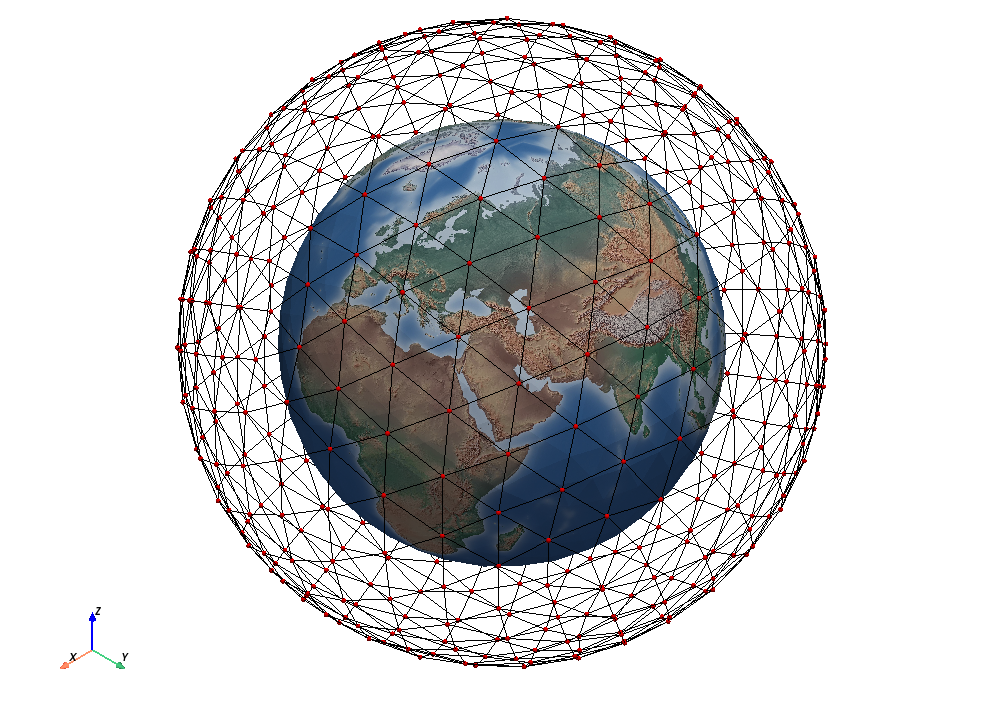
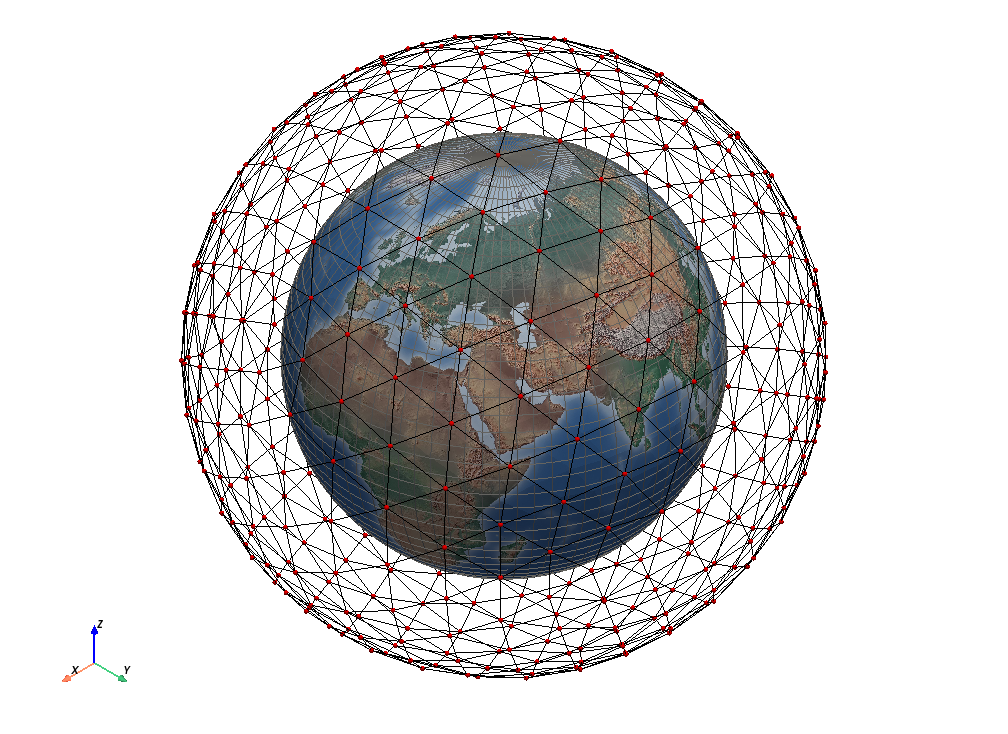
add base layer grid

Changed region(s): [[0.1555, 0.031, 0.8395, 0.9619], [0.0622, 0.8999, 0.1244, 0.9309], [0.0933, 0.8378, 0.1244, 0.8688]]

diff --git a/informatics-lab/icosphere/main.py b/informatics-lab/icosphere/main.py
@@ -189,6 +189,15 @@ def plot_base_layer(mesh: PolyData, zlevel: Optional[int] = None) -> None:
     plotter.add_base_layer(
         mesh=mesh.copy(), texture=geovista.natural_earth_hypsometric(), zlevel=zlevel
     )
+
+    M, N = 45, 90
+    lats = np.linspace(-90, 90, M + 1)
+    lons = np.linspace(-180, 180, N + 1)
+    data = np.random.random(M * N)
+    # create the grid from the synthetic data
+    grid = geovista.Transform.from_1d(lons, lats)
+    plotter.add_base_layer(mesh=grid, style="wireframe", color="grey", zlevel=zlevel)
+
     plotter.add_axes()
     plotter.add_text(
         f"Wireframe with Points, and Texture Mapped Base Layer ({zlevel=})",
@@ -216,15 +225,15 @@ mesh = geovista.Transform.from_unstructured(lon, lat, connectivity=connectivity)
 # some example plots using geovista...
 #
 
-plot_point_cloud(mesh)
-
-for preference in [None, "face", "point"]:
-    plot_surface(mesh, preference=preference)
-
-plot_wireframe(mesh)
-
-for preference in ["point", "face"]:
-    plot_labels(mesh, preference)
+# plot_point_cloud(mesh)
+#
+# for preference in [None, "face", "point"]:
+#     plot_surface(mesh, preference=preference)
+#
+# plot_wireframe(mesh)
+#
+# for preference in ["point", "face"]:
+#     plot_labels(mesh, preference)
 
 for zlevel in [-1, -10, -100, -300]:
     plot_base_layer(mesh, zlevel=zlevel)
